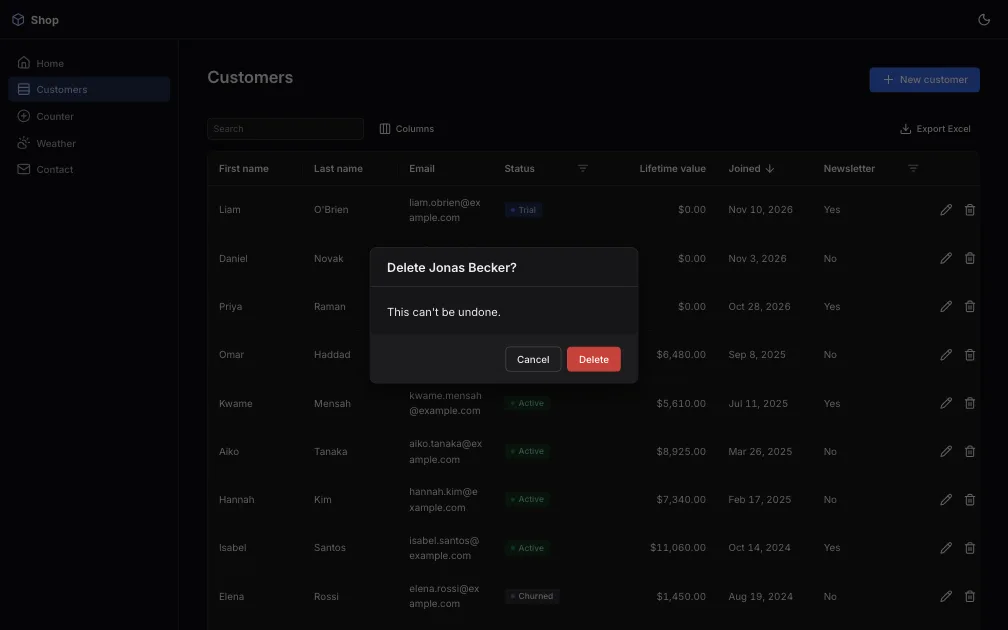
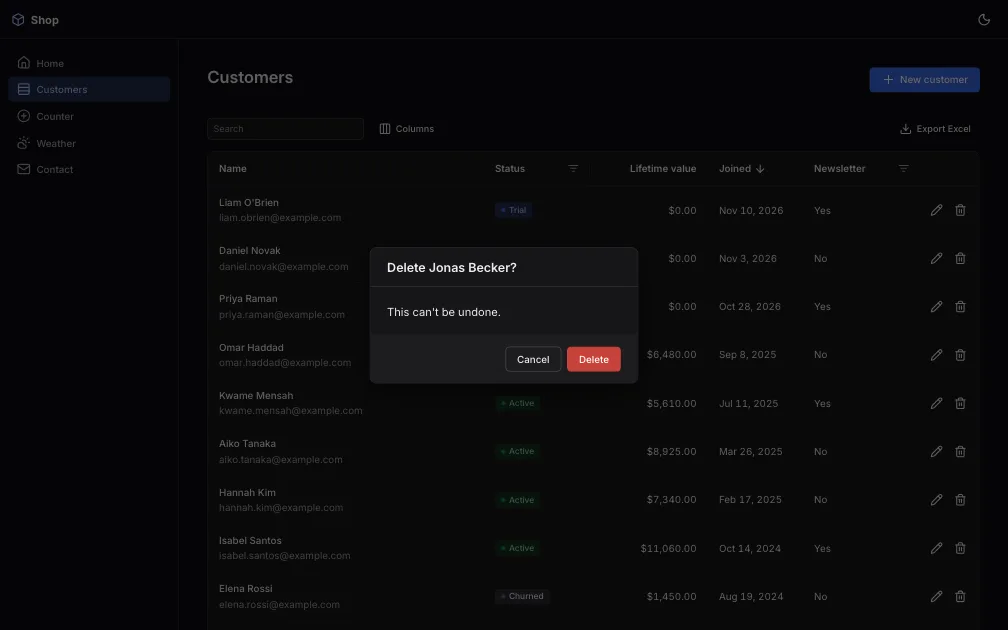
Pages for a Model's grid: the record's name as its first column, and the form marks what the grid's dialog marks. The grid page's first column is now the record's name, as Pages mode's list has it: the first required text field, or a first and last name together sorted by the last, with the first em

diff --git a/src/IzzyBlazor.Cli/Crud.cs b/src/IzzyBlazor.Cli/Crud.cs
@@ -252,7 +252,8 @@ static partial class Crud
             .OrderBy(f => f == status ? -1 : shown.ToList().IndexOf(f))
             .ToList();
         // The grid page shows the same columns as the list (title, then these); the rest only in its dialog.
-        IReadOnlyCollection<ModelField> columns = [.. new[] { title, last, subtitle }.OfType<ModelField>(), .. list];
+        IReadOnlyCollection<ModelField> inName = [.. new[] { title, last, subtitle }.OfType<ModelField>()];
+        IReadOnlyCollection<ModelField> columns = [.. inName, .. list];
         // Newest first by the last date shown, else by the title.
         var sortDate = list.LastOrDefault(f => f.Kind is FieldKind.Date or FieldKind.DateTime);
         var titleKey = (last ?? title ?? info.Key).Name.ToLowerInvariant();
@@ -283,10 +284,10 @@ static partial class Crud
         var facts = new Dictionary<string, object>(project.Facts)
         {
             ["Aliases"] = aliases.Select(a => (IReadOnlyDictionary<string, object>)new Dictionary<string, object> { ["Name"] = a.Key, ["Type"] = a.Value }).ToList(),
-            ["Fields"] = Records(shown, status, columns, TypeOf),
-            ["FormFields"] = Records(form, status, columns, TypeOf),
-            ["ListFields"] = Records(list, status, columns, TypeOf),
-            ["SearchFields"] = Records(search, status, columns, TypeOf),
+            ["Fields"] = Records(shown, status, columns, inName, TypeOf),
+            ["FormFields"] = Records(form, status, columns, inName, TypeOf),
+            ["ListFields"] = Records(list, status, columns, inName, TypeOf),
+            ["SearchFields"] = Records(search, status, columns, inName, TypeOf),
             ["StatusValues"] = status is null ? new List<IReadOnlyDictionary<string, object>>() : Values(status),
             ["HasTitle"] = title is not null,
             ["HasSubtitle"] = subtitle is not null,
@@ -444,7 +445,7 @@ static partial class Crud
         return dates.Count == 0 ? "()" : $" {{ {string.Join(", ", dates)} }}";
     }
 
-    static List<IReadOnlyDictionary<string, object>> Records(IEnumerable<ModelField> fields, ModelField? status, IReadOnlyCollection<ModelField> columns, Func<ModelField, string> typeOf) =>
+    static List<IReadOnlyDictionary<string, object>> Records(IEnumerable<ModelField> fields, ModelField? status, IReadOnlyCollection<ModelField> columns, IReadOnlyCollection<ModelField> inName, Func<ModelField, string> typeOf) =>
         [.. fields.Select(f => (IReadOnlyDictionary<string, object>)new Dictionary<string, object>
         {
             ["Name"] = f.Name,
@@ -452,6 +453,9 @@ static partial class Crud
             ["Label"] = f.Label + Zone(f),
             ["Column"] = f.ShortLabel + Zone(f),
             ["InList"] = columns.Contains(f),
+            // Shown in the list as the record's name (first and last name, with the email under them): the grid's
+            // own column for it is hidden, kept for its dialog and its column picker.
+            ["InName"] = inName.Contains(f),
             ["LabelLower"] = Lower(f.Label),
             ["Article"] = Article(Lower(f.Label)),
             ["Enter"] = Enter(Lower(f.Label)),
@@ -480,8 +484,9 @@ static partial class Crud
             // Required by the model but not by an attribute the form reads, such as a string that isn't
             // nullable: the page checks it itself.
             ["CheckRequired"] = f.Required && f.Kind is FieldKind.Text or FieldKind.LongText or FieldKind.Email or FieldKind.Phone or FieldKind.Url,
-            // Marked required in the form: a value type always has a value, so it isn't "(optional)".
-            ["RequiredAttr"] = f.Required && f.Kind != FieldKind.Bool ? " Required" : "",
+            // Marked required in the form when it can be left empty, as the grid's dialog marks it: text, or a
+            // value that can be null. A number or a date always has a value, and a yes or no is never required.
+            ["RequiredAttr"] = f.Required && f.Kind != FieldKind.Bool && (f.Nullable || f.Kind is FieldKind.Text or FieldKind.LongText or FieldKind.Email or FieldKind.Phone or FieldKind.Url) ? " Required" : "",
             ["Nullable"] = f.Nullable,
             ["ReadOnly"] = f.ReadOnly,
             ["Numeric"] = f.Numeric,
